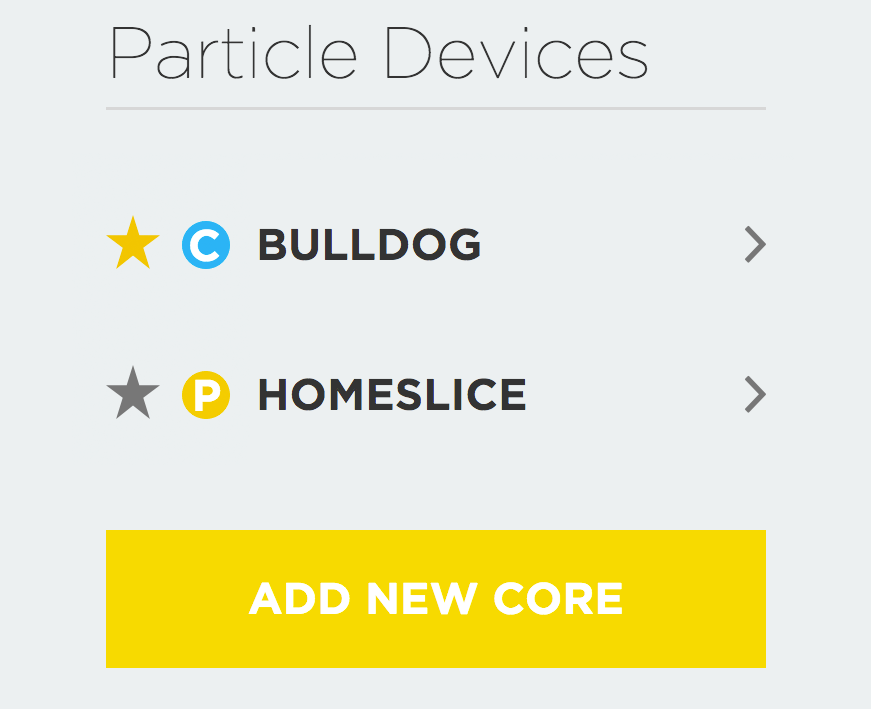
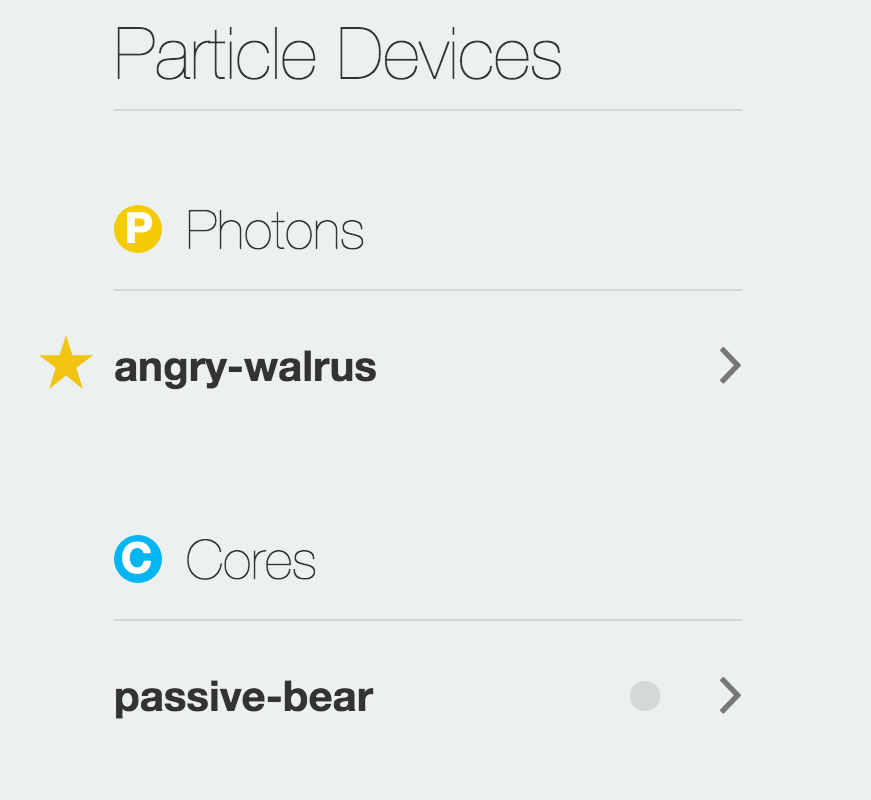
Updated Devices drawer description and screenshot

diff --git a/src/content/en/shared/build.md b/src/content/en/shared/build.md
@@ -99,9 +99,9 @@ void loop() {
 ```
 ![Particle Build]({{assets}}/images/ide-devices.png)
 
-- **Select Your Device**: The next step is to make sure that you've selected which of your devices to flash code to.  Click on the "Devices" icon at the bottom left side of the navigation pane, and click on the star next to the device you'd like to update.  Once you've selected a device, the star associated with it will turn yellow. (If you only have one device, there is no need to select it, you can continue on to the next step).
+- **Select Your Device**: If you have more than one device you have to make sure that you've selected which of your devices to flash code to.  Click on the "Devices" icon at the bottom left side of the navigation pane, then when you hover over device name the star will appear on the left. Click on it to set the device you'd like to update (it won't be visible if you have only one device). Once you've selected a device, the star associated with it will turn yellow. (If you only have one device, there is no need to select it, you can continue on to the next step).
 
-**NOTE**: Left to the name of your device there is an icon which shows which platform it belongs to. The Core has a cyan **C** and Photon a yellow **P**. 
+**NOTE**: Devices are grouped by their platform. You can see the platform icon (circle with an letter) on the left of its name.
 
 - **Flash**: Click the "Flash" button, and your code will be sent wirelessly to your device.  If the flash was successful, the LED on your device will begin flashing magenta.
 
